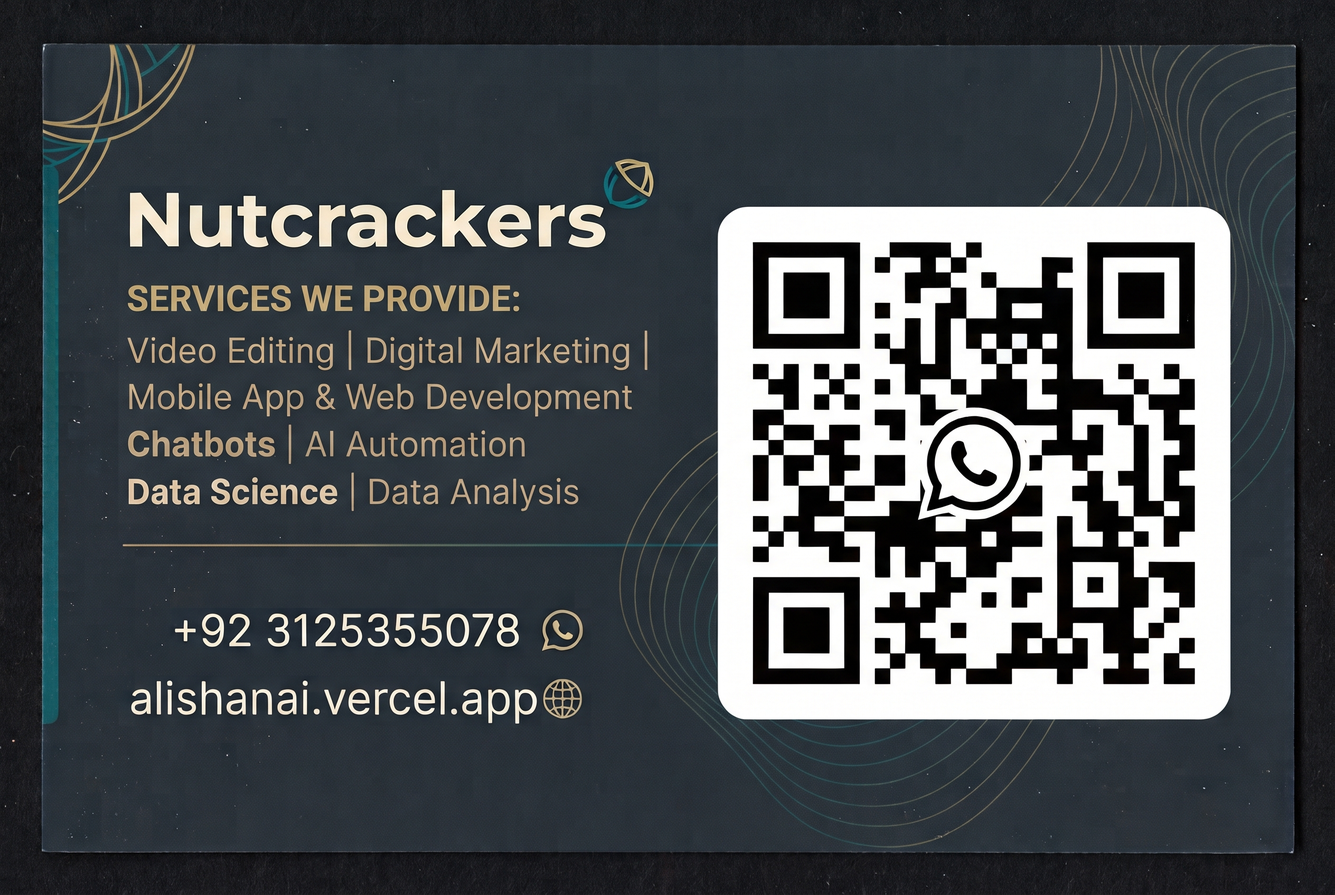
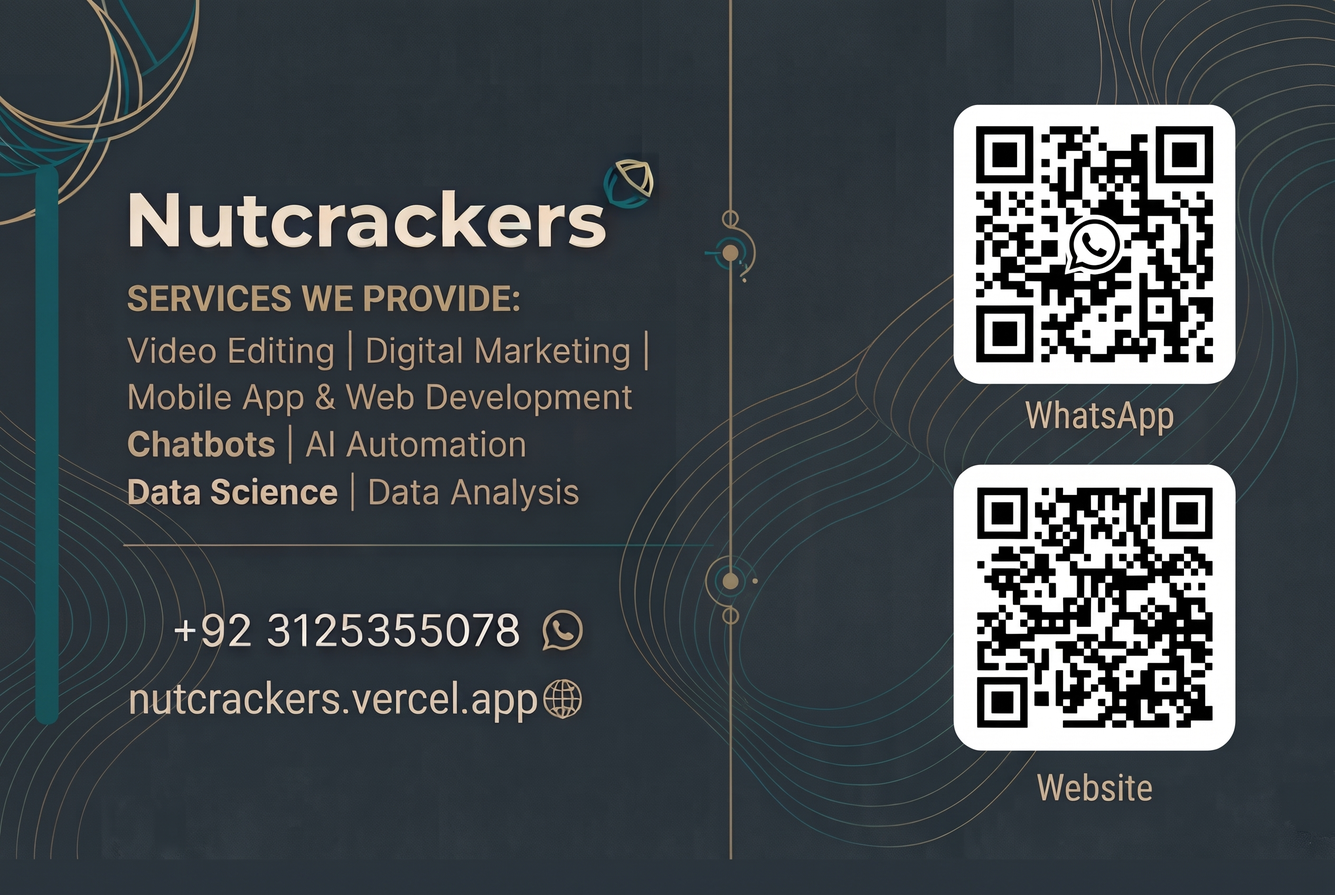
feat(brand): update official business card with website QR code and 256KB WebP optimization

diff --git a/src/components/home/ContactSection.tsx b/src/components/home/ContactSection.tsx
@@ -240,7 +240,7 @@ export const ContactSection: React.FC<ContactSectionProps> = ({ initialService }
                   </picture>
                   <div className="absolute inset-0 bg-gradient-to-t from-black/80 via-transparent to-transparent flex items-end p-3">
                     <span className="text-[10px] font-mono text-gray-300">
-                      Nutcrackers Brand Card & WhatsApp QR
+                      Nutcrackers Official Card & Website QR (nutcrackers.vercel.app)
                     </span>
                   </div>
                 </div>
